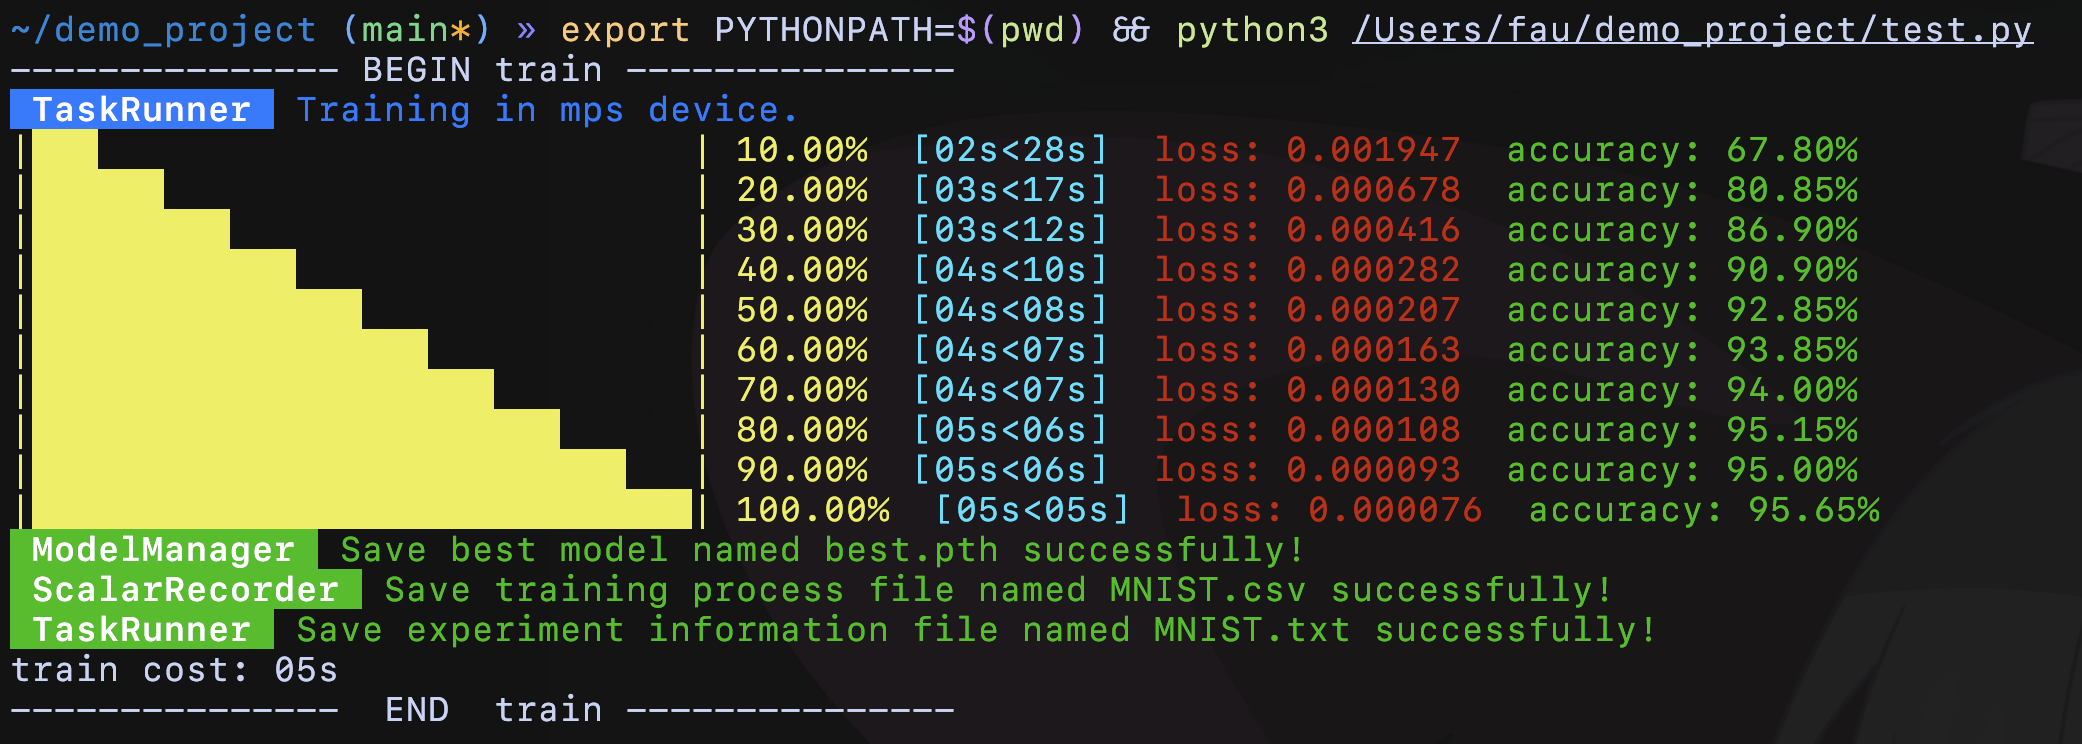
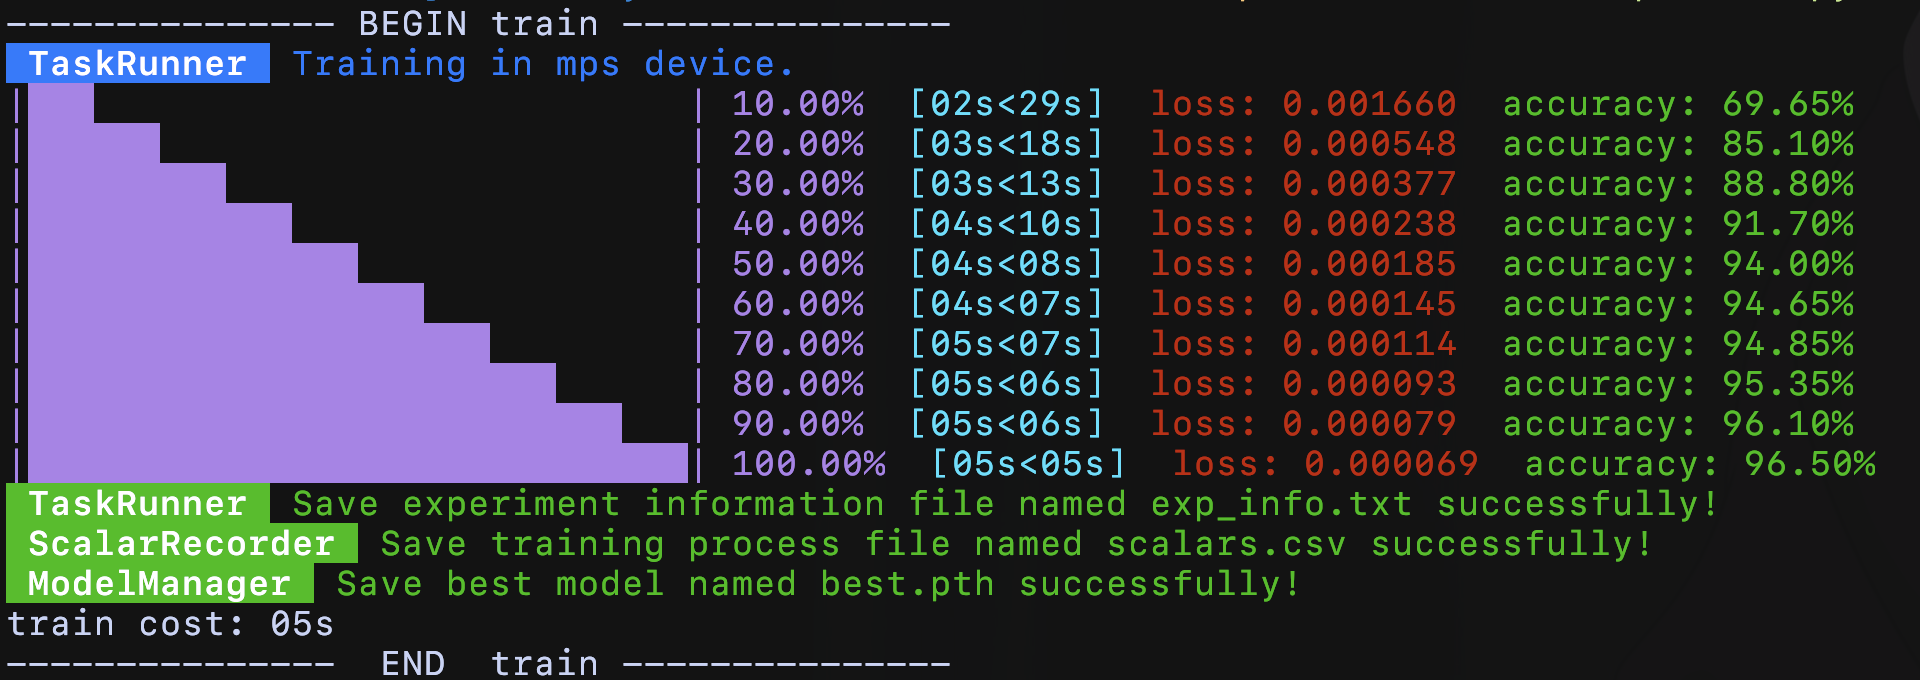
version: 2.0.1 feat(TaskRunner): the experiment information file will be uploaded to clearml refactor: use magenta to show process bar

diff --git a/fau_tools/data_structure/_task_runner.py b/fau_tools/data_structure/_task_runner.py
@@ -90,8 +90,7 @@ class TaskRunner:
     utils.notify(cls.__name__, content=content, notify_type=notify_type)
 
 
-  @classmethod
-  def _check_clearml_task(cls, clearml_task):
+  def _check_clearml_task(self, clearml_task):
     """Determine whether to enable ClearML task."""
     if clearml_task is None: return False
 
@@ -99,15 +98,17 @@ class TaskRunner:
     try:
       from clearml import Task
     except ImportError:
-      cls._class_notify("Run `from clearml import Task` error.", notify_type="error")
+      self._class_notify("Run `from clearml import Task` error.", notify_type="error")
       return False
 
     # Check object type.
     if not isinstance(clearml_task, Task):
-      cls._class_notify("TypeError: `clearml_task` should be the `clearml.Task` type.", notify_type="error")
+      self._class_notify("TypeError: `clearml_task` should be the `clearml.Task` type.", notify_type="error")
       return False
 
-    cls._class_notify("ClearML task is enabled.", notify_type="info")
+    import clearml
+    self.clearml_task: clearml.Task
+    self._class_notify("ClearML task is enabled.", notify_type="info")
     return True
 
 
@@ -133,8 +134,8 @@ class TaskRunner:
   def _train_step(self, features: torch.Tensor, targets: torch.Tensor):
     # Forward
     features, targets = features.to(self.device), targets.to(self.device)
-    outputs: torch.Tensor    = self.model(features)
-    loss: torch.Tensor = self.loss_function(outputs, targets)
+    outputs: torch.Tensor = self.model(features)
+    loss: torch.Tensor    = self.loss_function(outputs, targets)
     self.train_loss += loss.item()
 
     # Backward
@@ -165,13 +166,20 @@ class TaskRunner:
     # =============================================
     if self.exp_path is None: return
 
-    folder_path = f"{self.exp_path}_{self.model_manager.get_postfix()}"
-    folder_path = utils.create_folder(folder_path)
+    folder_path   = f"{self.exp_path}_{self.model_manager.get_postfix()}"
+    folder_path   = utils.create_folder(folder_path)
     if folder_path is None: return
 
-    if self.save_model: self.model_manager.save(f"{folder_path}/best.pth")
-    self.scalar_recorder.save(f"{folder_path}/{self.exp_path}.csv")
-    self._save_experiment(f"{folder_path}/{self.exp_path}.txt")
+    model_path    = f"{folder_path}/best.pth"
+    scalar_path   = f"{folder_path}/scalars.csv"
+    exp_info_path = f"{folder_path}/exp_info.txt"
+
+    self._save_experiment(exp_info_path)
+    self.scalar_recorder.save(scalar_path)
+    if self.save_model: self.model_manager.save(model_path)
+    if self.clearml_task:
+      self.clearml_task.upload_artifact("experiment information", exp_info_path)
+      self.clearml_task.close()
 
 
   def calc_accuracy(self, data_loader: tdata.DataLoader) -> float:
@@ -181,9 +189,9 @@ class TaskRunner:
     self.model.eval()
     with torch.no_grad():
       for features, targets in data_loader:
-        features: torch.Tensor = features.to(self.device)
-        targets: torch.Tensor  = targets.to(self.device)
-        outputs: torch.Tensor  = self.model(features)
+        features: torch.Tensor    = features.to(self.device)
+        targets: torch.Tensor     = targets.to(self.device)
+        outputs: torch.Tensor     = self.model(features)
         predictions: torch.Tensor = outputs.argmax(1)
         # loss: torch.Tensor = self.loss_function(outputs, targets)
         total_positive_num += sum(predictions.eq(targets)).item()
@@ -203,7 +211,7 @@ class TaskRunner:
 
     progress_section = utils.cprint(
       f"|{finish_char * finish_char_num}{unfinish_char * unfinish_char_num}| {percent:6.2%}",
-      color="yellow", show=False
+      color="magenta", show=False
     )
 
     average_time, elapsed_time = self.time_manager.get_average_time(), self.time_manager.get_elapsed_time()
@@ -229,10 +237,6 @@ class TaskRunner:
 
   def _report_scalars_to_clearml(self):
     if self.clearml_task is None: return
-
-    # NOTE: For debugging
-    # import clearml
-    # self.clearml_task: clearml.Task
     clearml_logger = self.clearml_task.get_logger()
     clearml_logger.report_scalar("loss", "train/loss", self.train_average_loss, self.cur_epoch)
     clearml_logger.report_scalar("metric", "test/accuracy", self.test_accuracy, self.cur_epoch)
@@ -250,7 +254,7 @@ class TaskRunner:
     file_path = utils.ensure_file_postfix(file_path, ".txt")
     with open(file_path, "w") as file:
       # Save experiment datetime
-      file.write(f"experiment end time: {datetime.now()}\n")
+      file.write(f"experiment end time: {datetime.now()}\n\n")
       # Save loss function and optimizer
       file.write(f"optimizer:\n{self.optimizer}\n")
       file.write(f"{'-' * 20}\n")

diff --git a/README.md b/README.md
@@ -16,7 +16,6 @@ The following code is recommended.
 
 ```python
 import fau_tools
-from fau_tools import torch_tools
 ```
 
 ### quick start
@@ -84,13 +83,13 @@ Now, we can run the python file, and the training process will be visualized, ju
 
 ![training_visualization](github_attachment/training_visualization.png)
 
-> Three files named `MNIST_9846.pth`, `MNIST_9846.csv` and `MNIST_9846.txt` will be saved.
+> Three files named `best.pth`, `scalars.csv` and `exp_info.txt` will be saved.
 >
 > The first file is the trained model.
 >
-> The second file records the training process, which you can use matplotlib to visualize it.
+> The second file records scalar value changes in the training process, which you can use matplotlib to visualize it.
 >
-> The third file saves some hyper parameters about the training.
+> The third file saves some information about the experiment.
 
 ---
 
